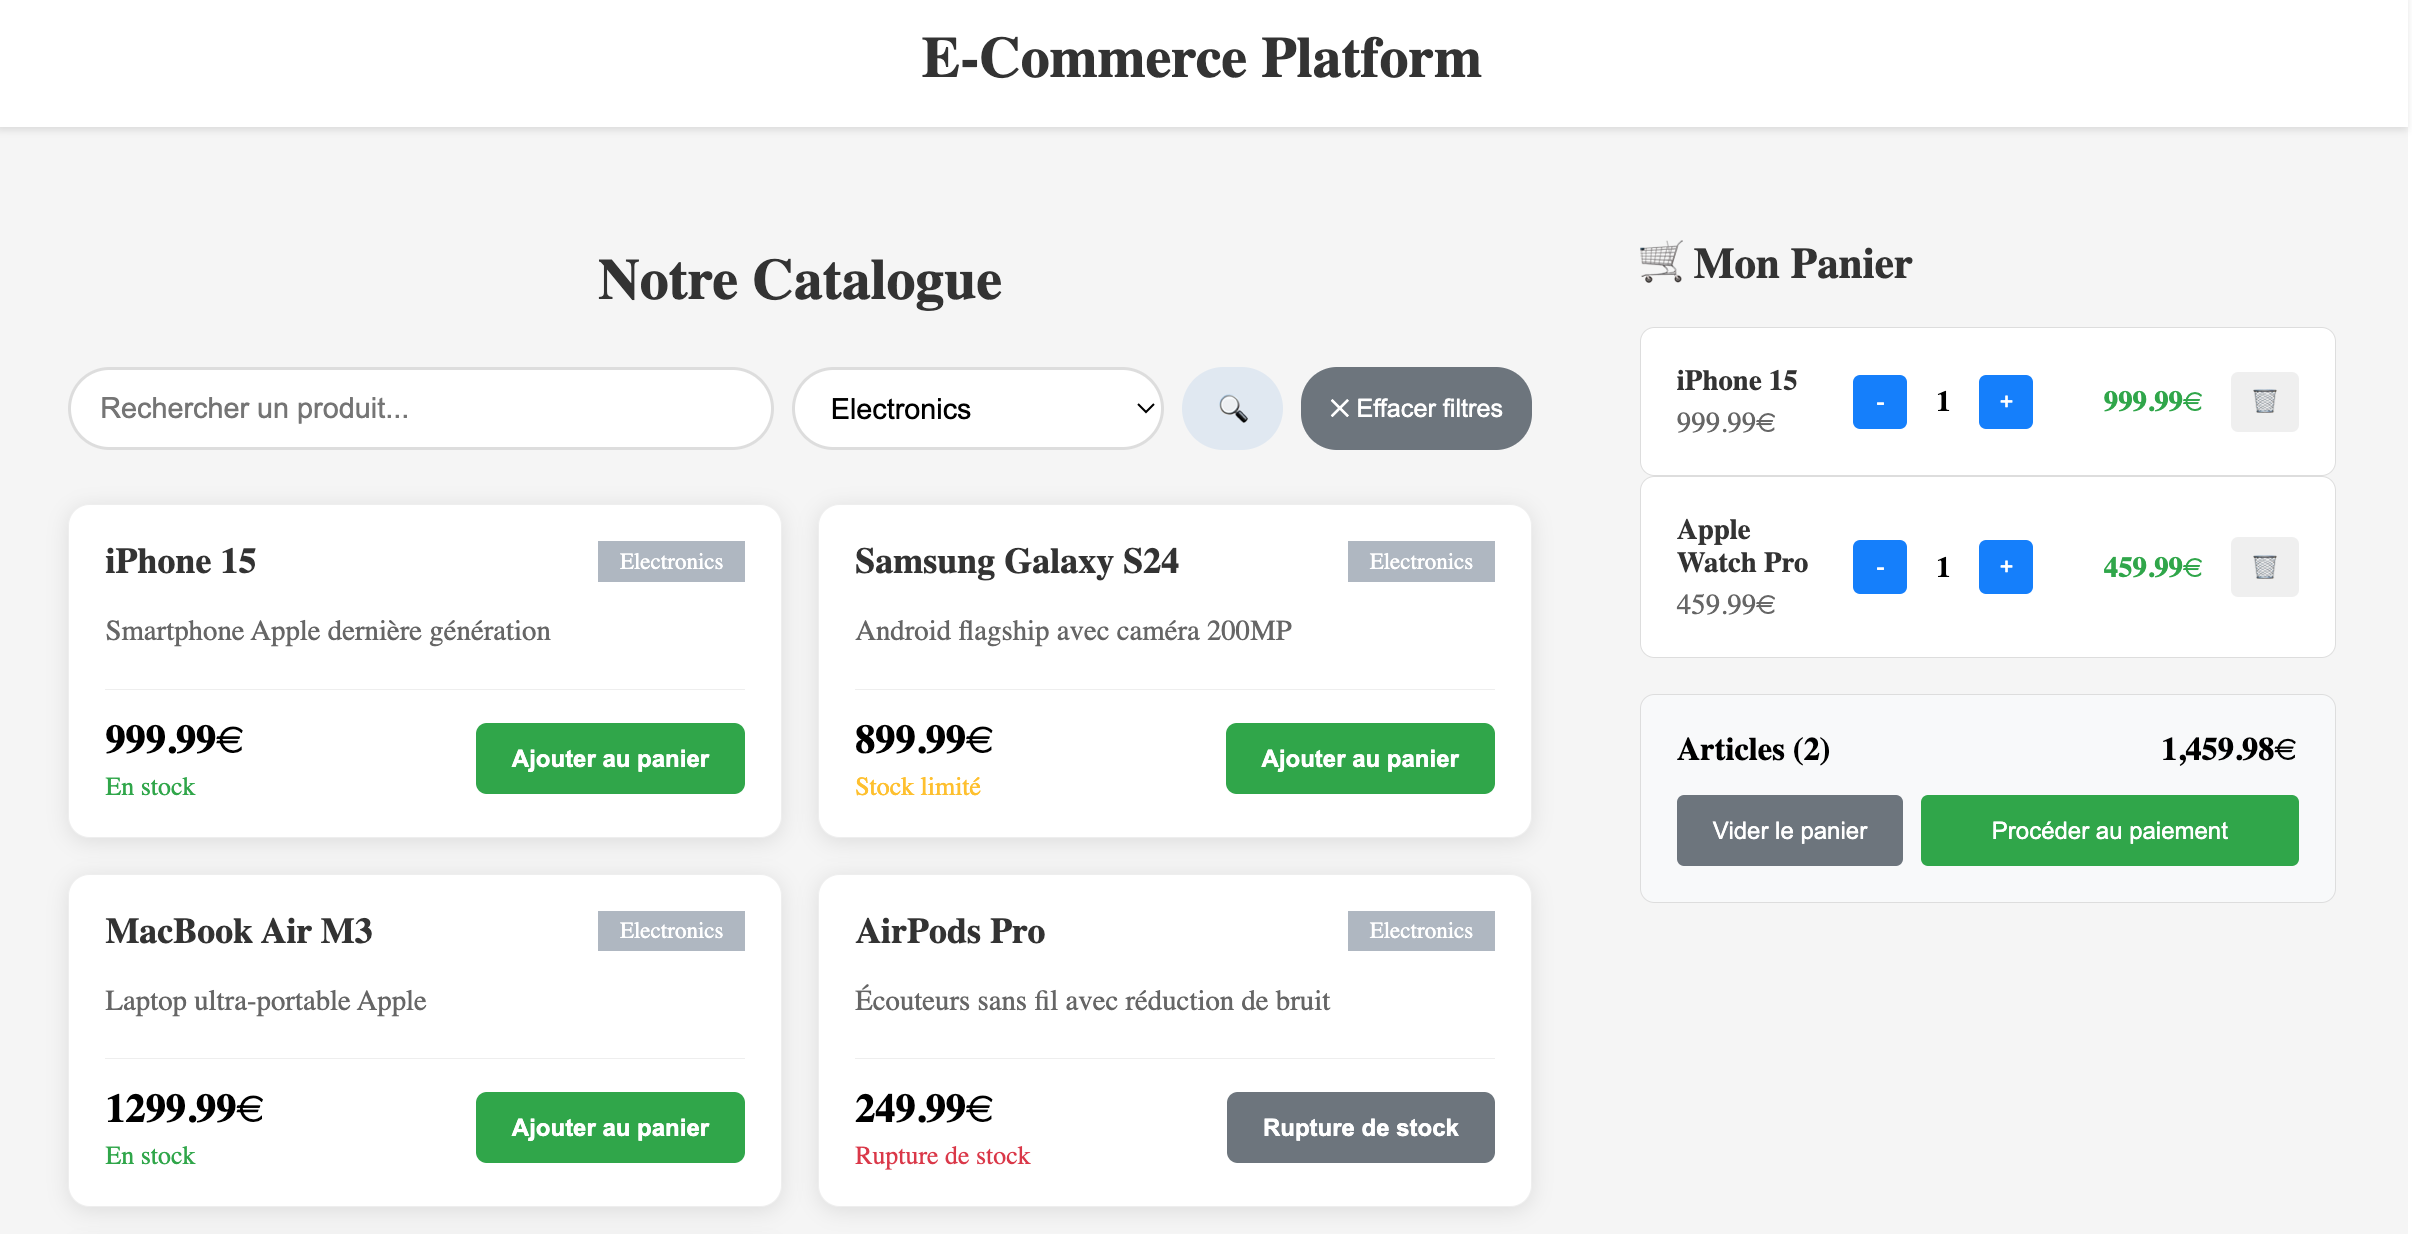
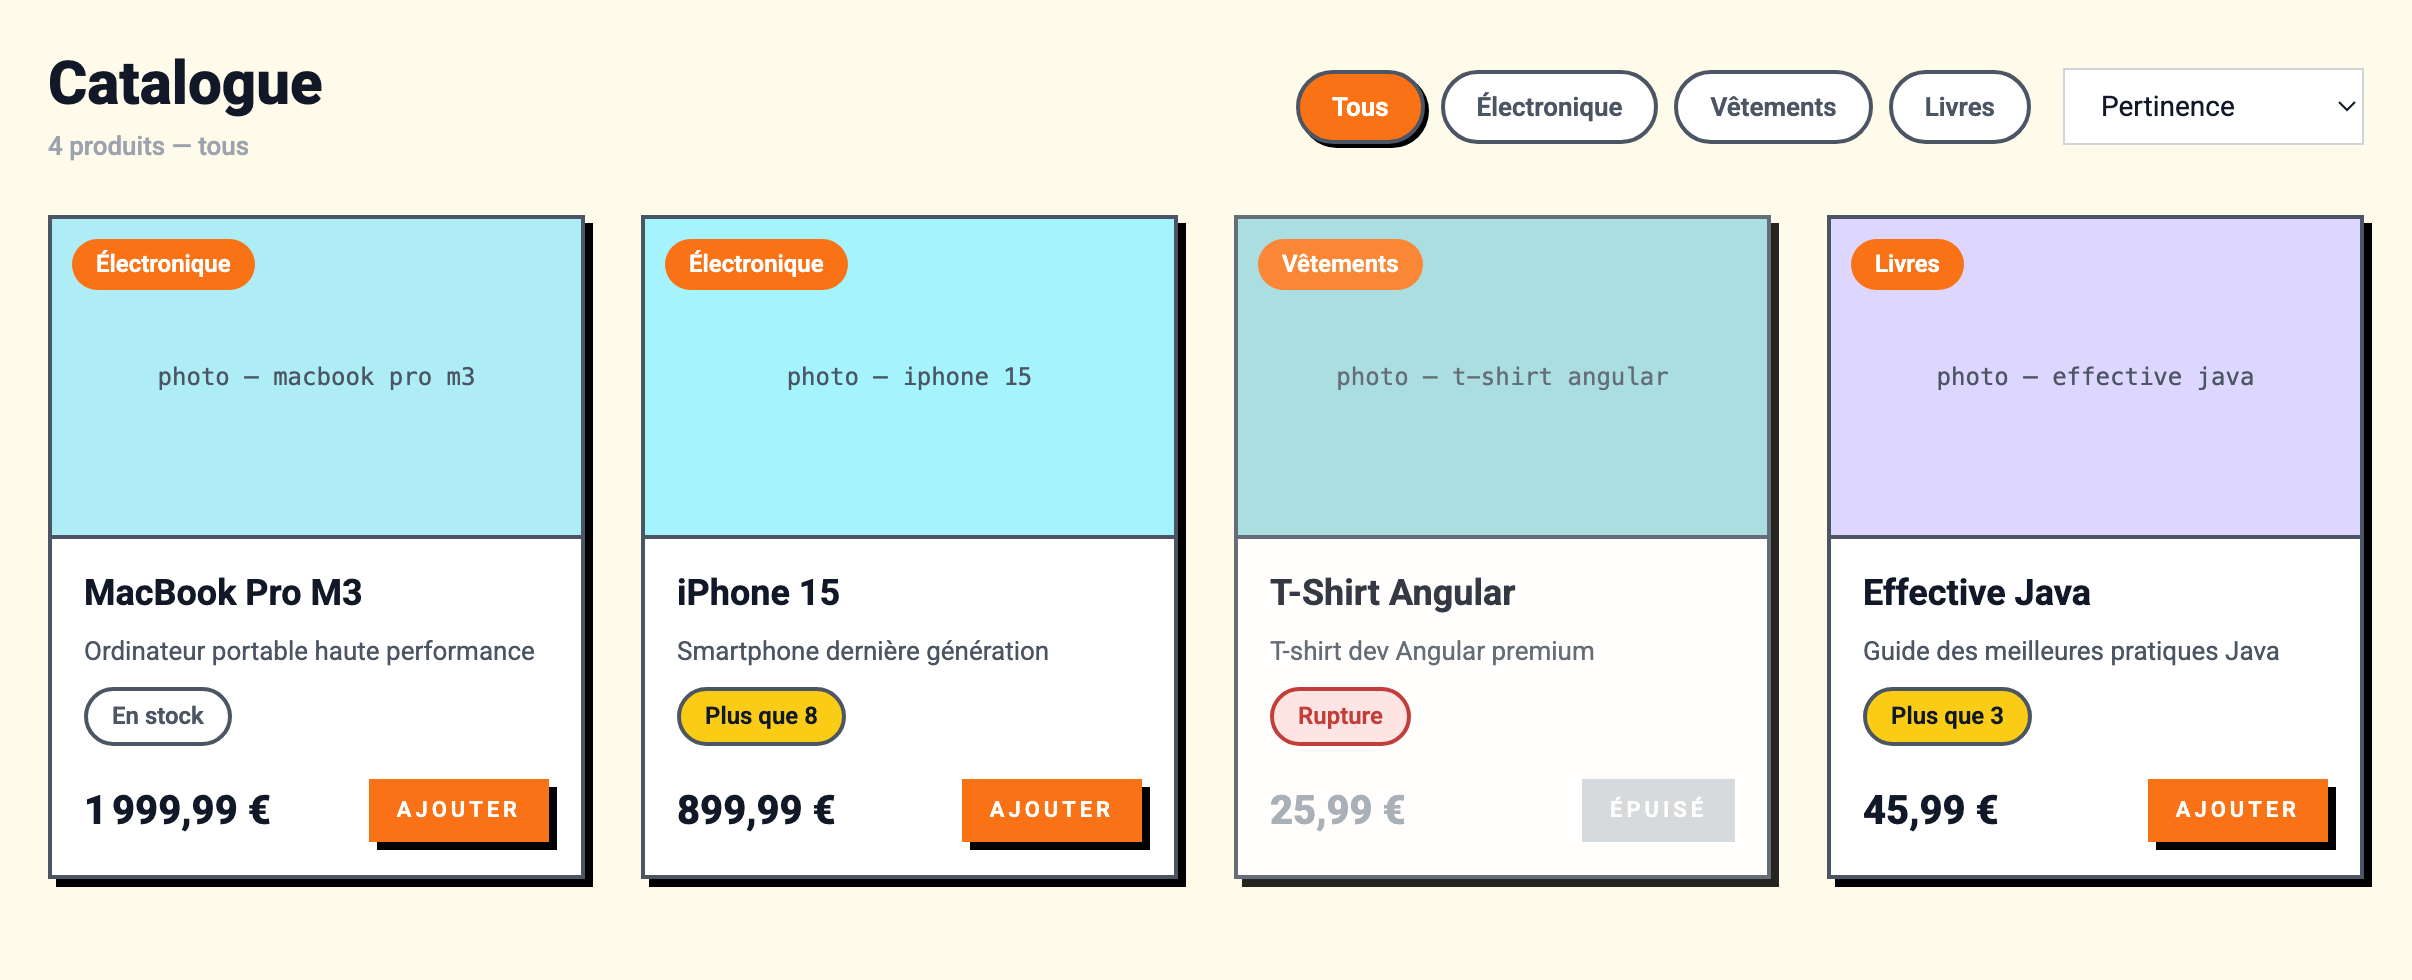
fix: captures du projet E-Commerce sur le design actuel
Remplace la capture de l'ancienne interface par deux captures du nouveau
design (néo-brutalisme pastel du design system personnel) : catalogue de
la boutique et back-office d'administration, avec légendes, sur le même
modèle que le projet Incident Tracker.

diff --git a/src/app/pages/projects/projects.html b/src/app/pages/projects/projects.html
@@ -138,13 +138,36 @@
         </div>
         <p class="mb-4 text-lg font-bold text-orange-600">Full-Stack • Spring Boot + Angular 21</p>
 
-        <!-- Screenshot -->
-        <div class="mb-6 overflow-hidden rounded-lg shadow-lg">
-          <img
-            src="/assets/images/e_commerce1.png"
-            alt="E-Commerce Platform Screenshot"
-            class="object-cover w-full transition-transform duration-300 hover:scale-105"
-          />
+        <!-- Screenshots empilées : boutique puis back-office, captures en
+             format paysage sur le design actuel (néo-brutalisme pastel) -->
+        <div class="grid gap-4 mb-6">
+          <!-- Screenshot 1 : Catalogue de la boutique -->
+          <div class="flex flex-col overflow-hidden rounded-lg shadow-lg">
+            <img
+              src="/assets/images/e_commerce1.png"
+              alt="Catalogue de la boutique - E-Commerce Platform"
+              class="object-contain w-full transition-transform duration-300 hover:scale-105"
+            />
+            <div class="px-4 py-2 mt-auto bg-white border-t">
+              <p class="text-sm font-medium text-gray-600">
+                Boutique publique : catalogue, filtres par catégorie et stock en direct
+              </p>
+            </div>
+          </div>
+
+          <!-- Screenshot 2 : Back-office d'administration -->
+          <div class="flex flex-col overflow-hidden rounded-lg shadow-lg">
+            <img
+              src="/assets/images/e_commerce2.png"
+              alt="Back-office d'administration - E-Commerce Platform"
+              class="object-contain w-full transition-transform duration-300 hover:scale-105"
+            />
+            <div class="px-4 py-2 mt-auto bg-white border-t">
+              <p class="text-sm font-medium text-gray-600">
+                Back-office admin : indicateurs, dernières commandes et alertes stock
+              </p>
+            </div>
+          </div>
         </div>
 
         <p class="mb-4 text-lg leading-relaxed text-gray-700">
